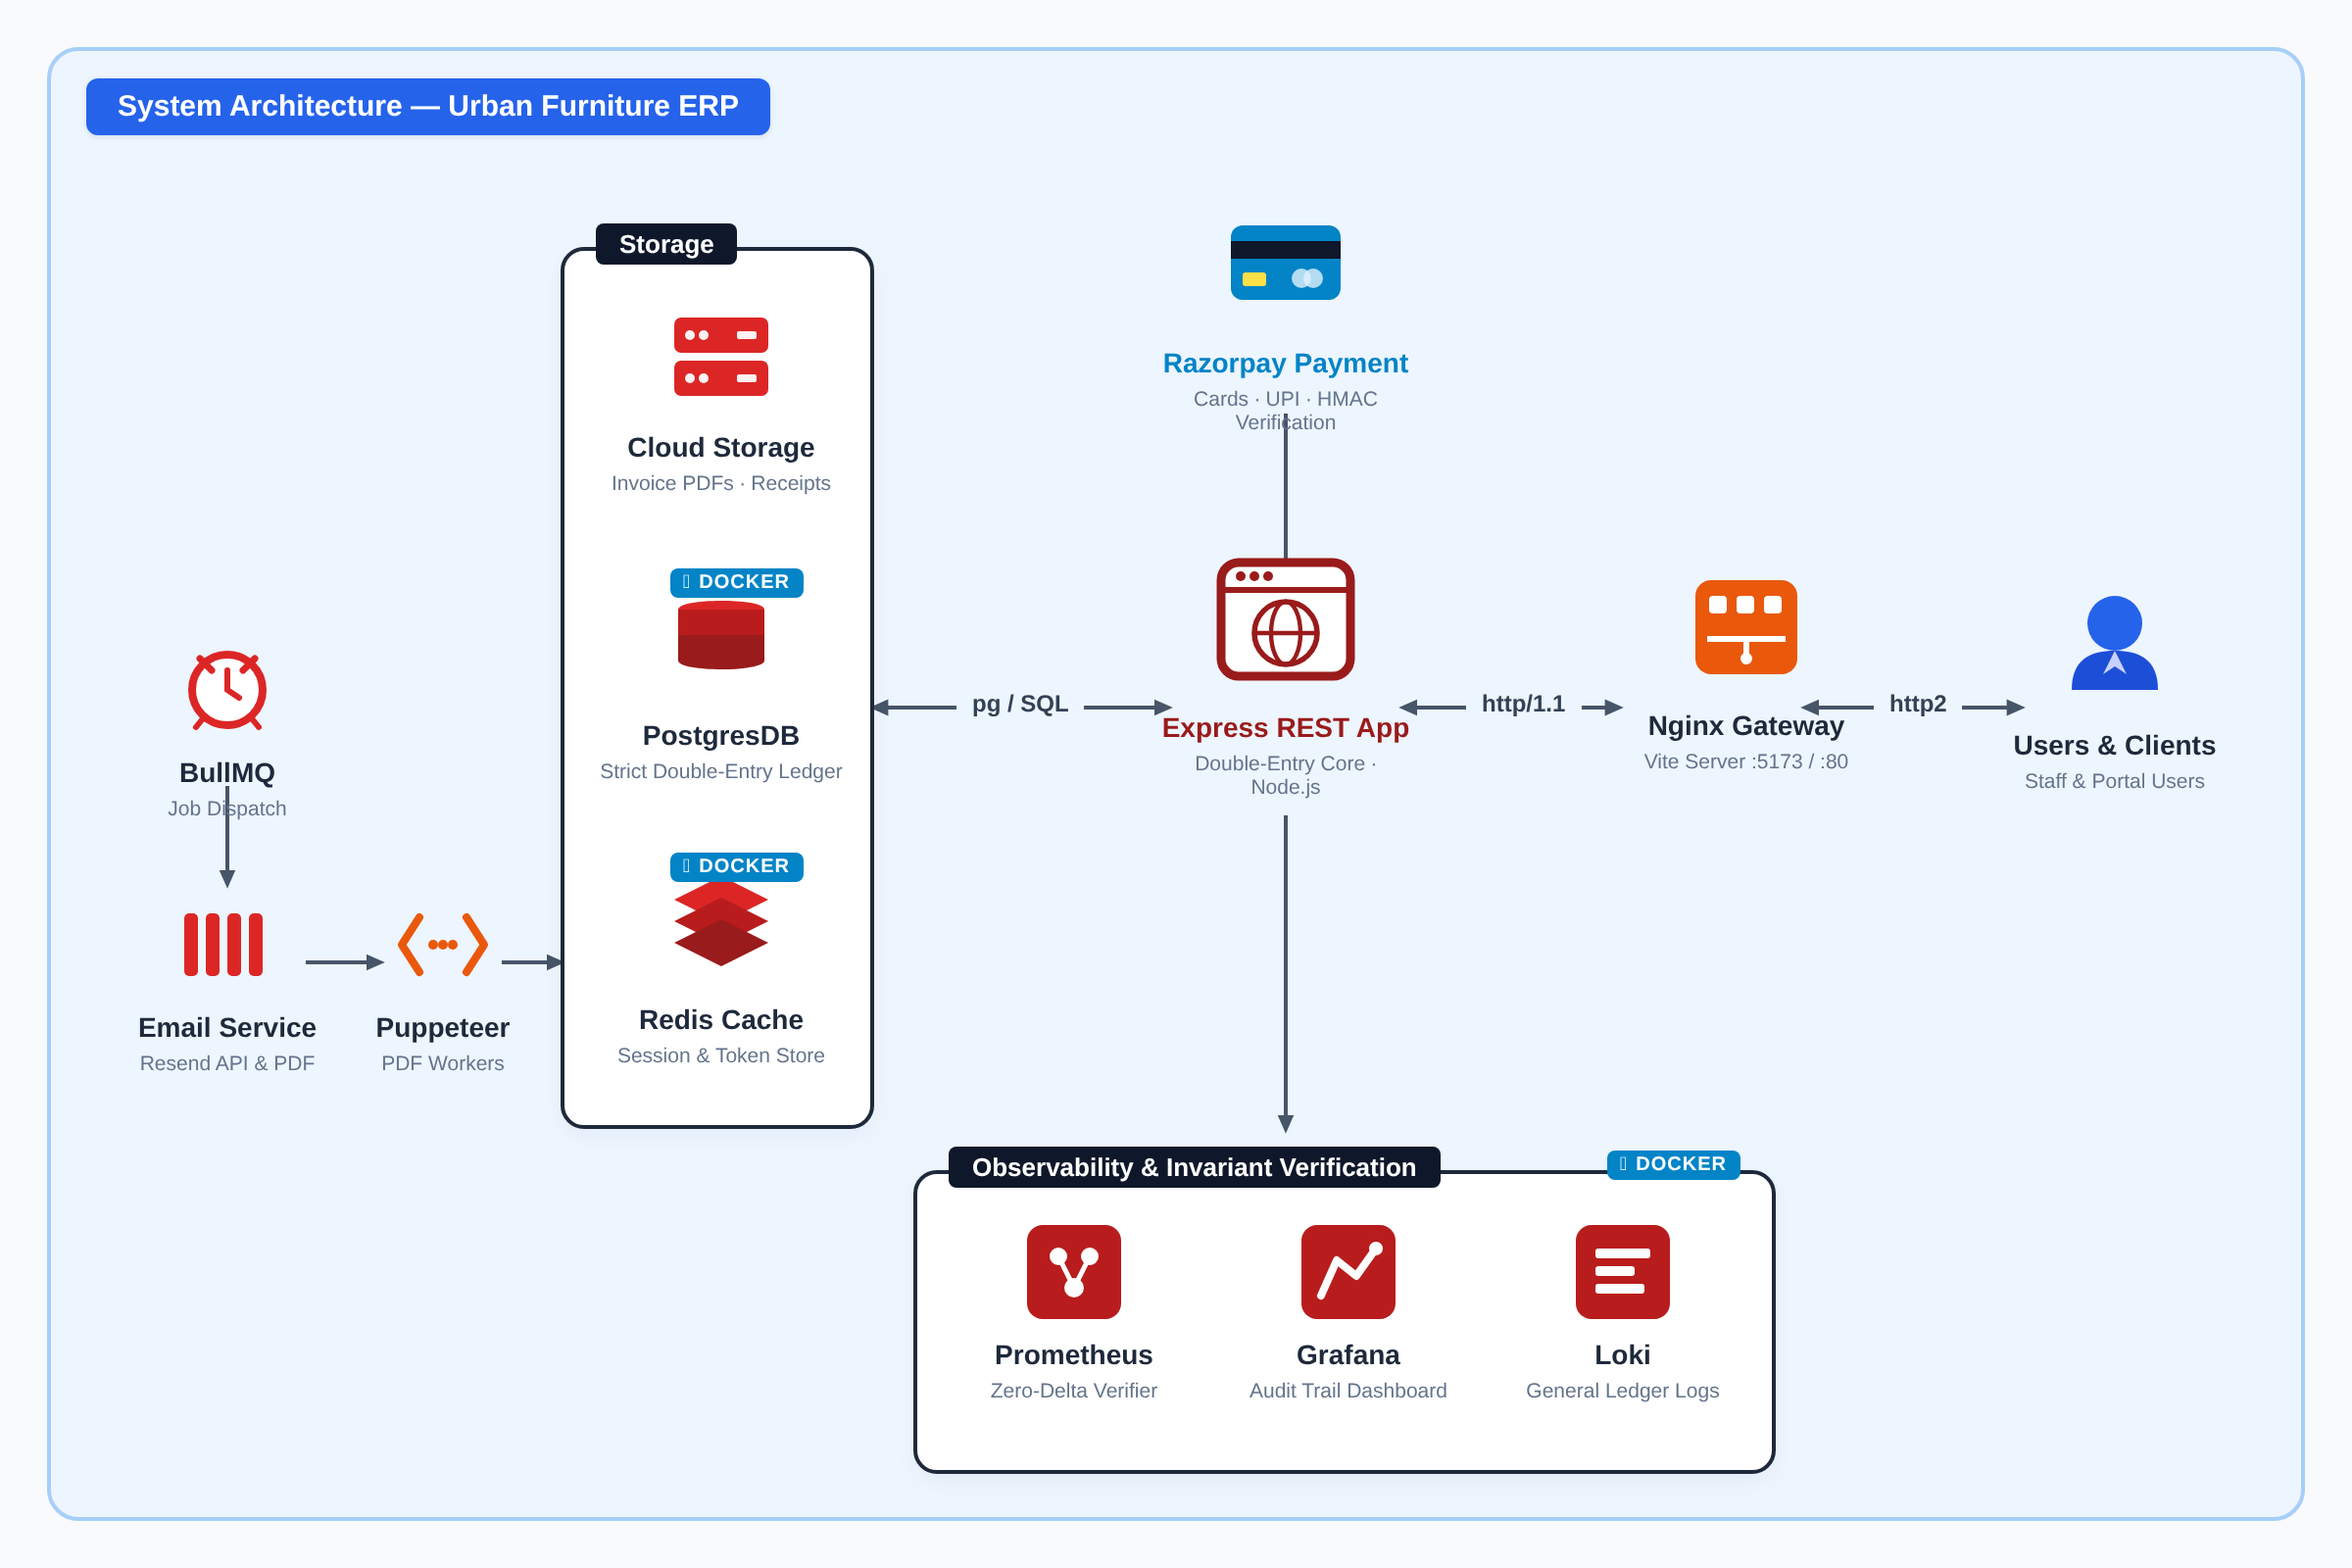
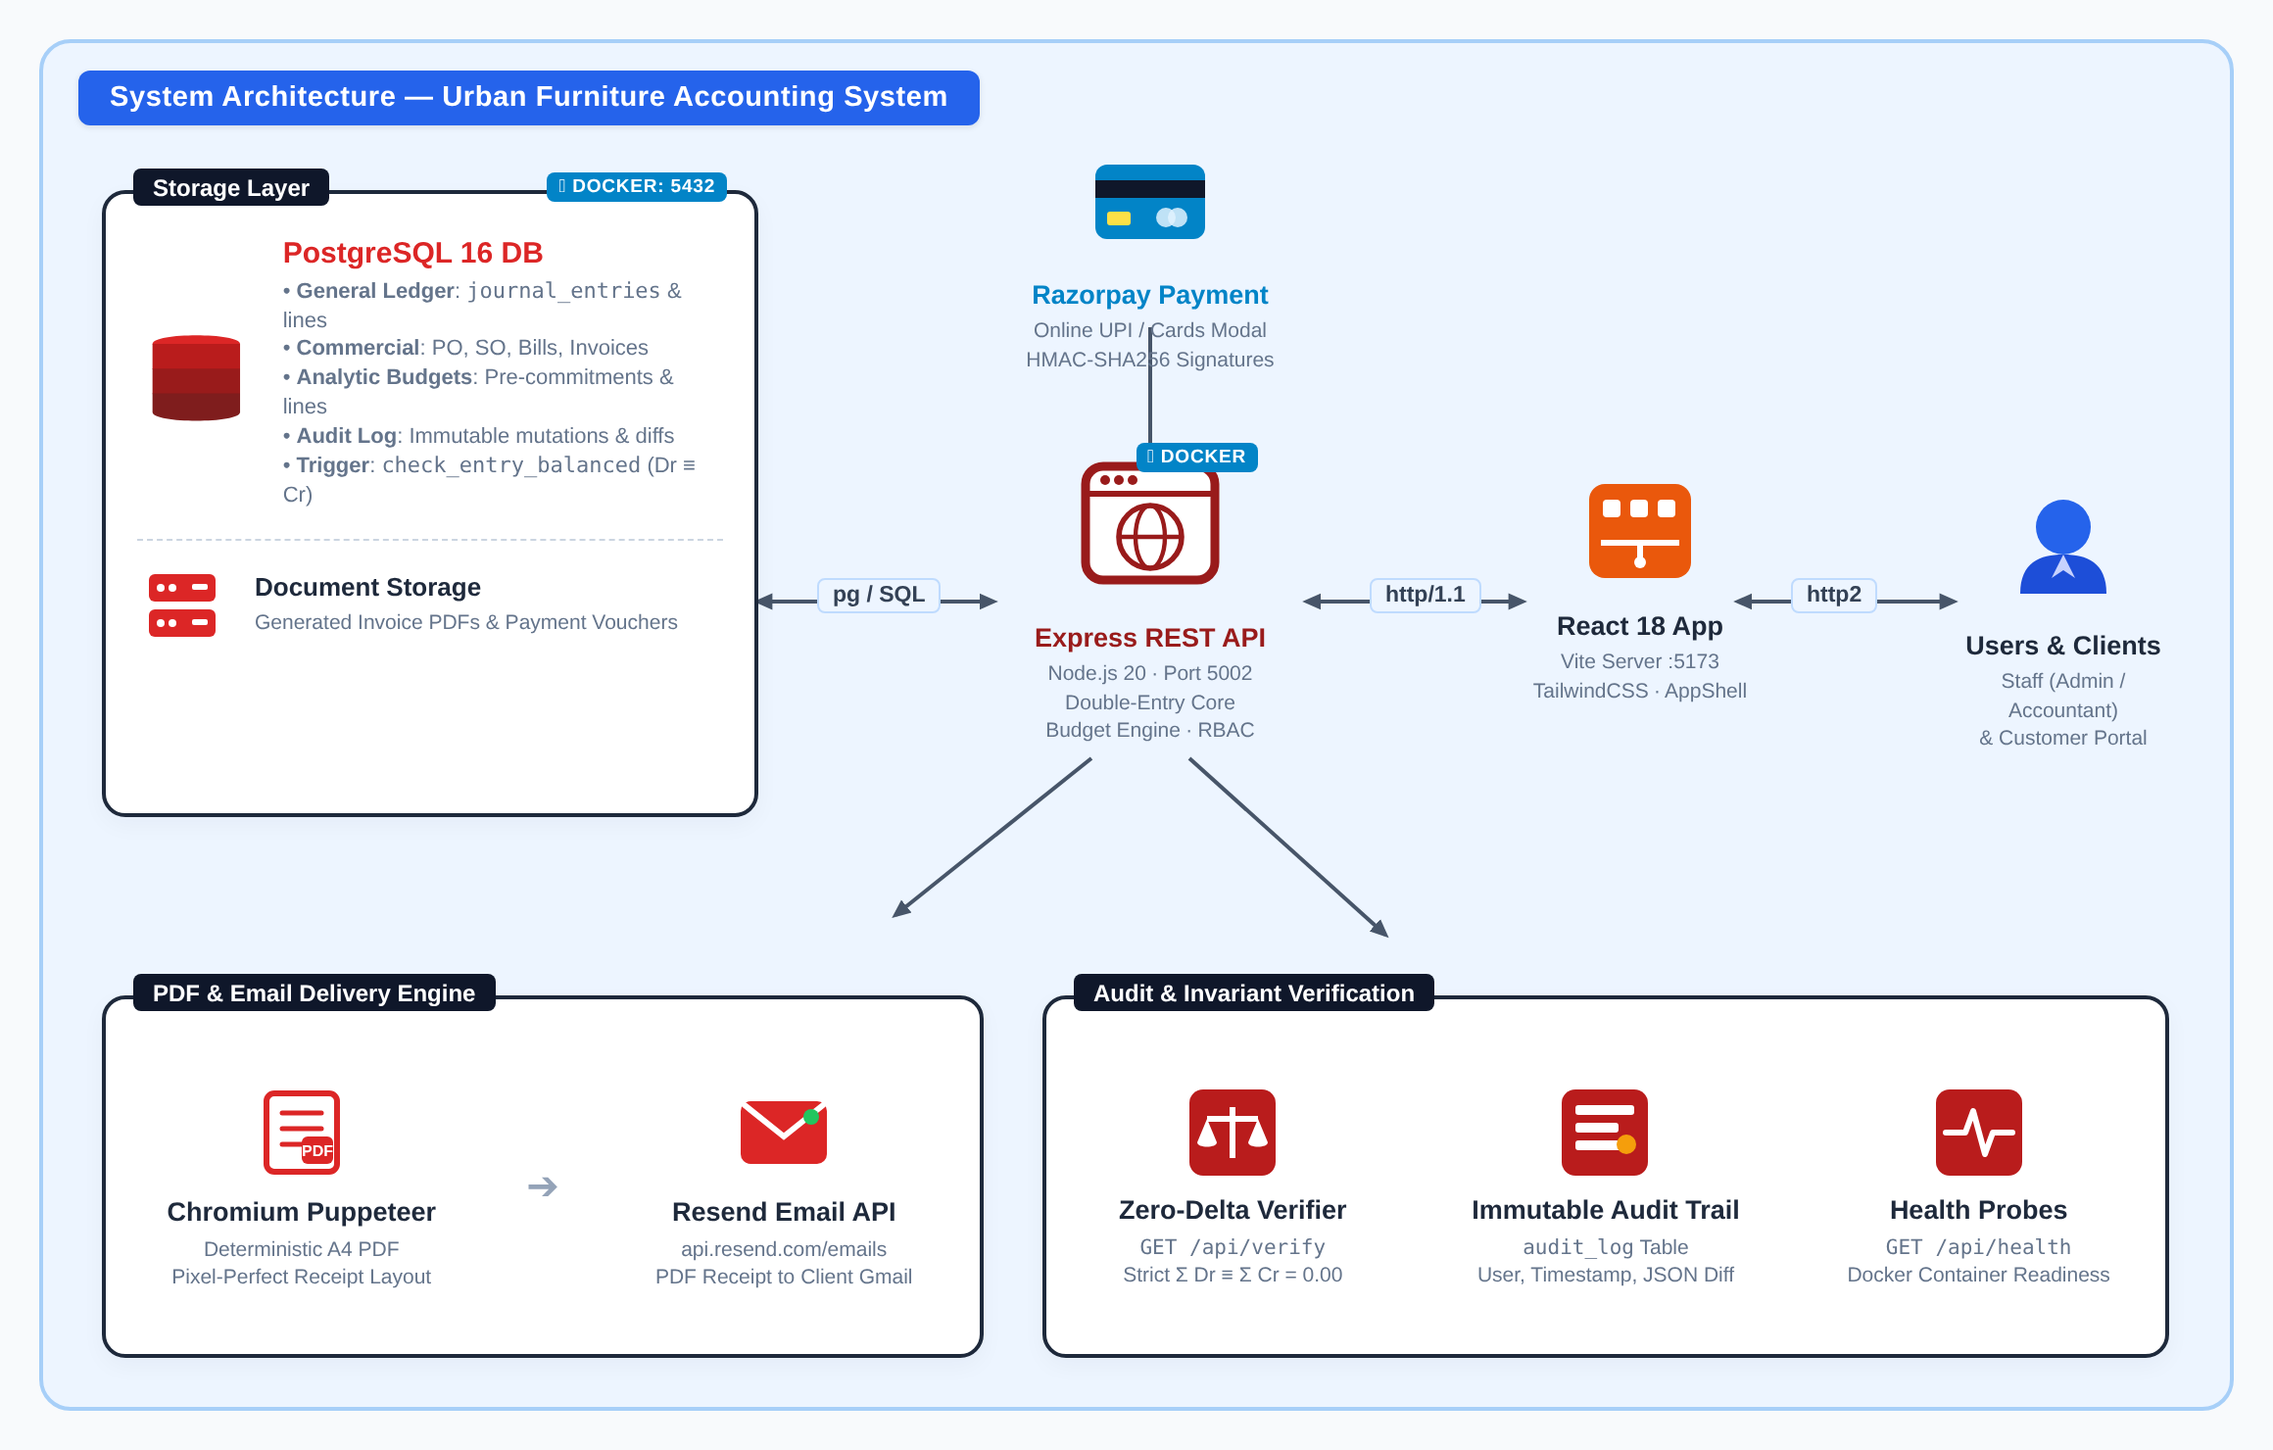
docs: align architecture diagram strictly with Urban Furniture ERP components

diff --git a/README.md b/README.md
@@ -24,79 +24,76 @@
 
 ```mermaid
 flowchart LR
-    subgraph SysArch [SYSTEM ARCHITECTURE]
+    subgraph SysArch [SYSTEM ARCHITECTURE — URBAN FURNITURE ERP]
         direction LR
 
         subgraph ActorsCluster [Users and Clients]
-            Users[Users and Portal Clients<br/>Internal Staff and Customer Portal]
+            Users[Users and Clients<br/>Staff: Admin, Accountant, Sales<br/>Customer Portal Users]
         end
 
-        subgraph GatewayCluster [Gateway and Web]
-            Gateway[Nginx Gateway / Web App<br/>Port 5173 / 80<br/>SSL Termination and Reverse Proxy]
+        subgraph GatewayCluster [Frontend Client Tier]
+            Gateway[React 18 Web App<br/>Vite Server :5173 / :80<br/>TailwindCSS and AppShell]
         end
 
         subgraph AppCluster [Application Core - Docker]
-            WebApp[Express REST API Server<br/>Node.js 20 - Express 5 - TypeScript<br/>Double-Entry Posting Engine<br/>RBAC and Pre-Commitment Budgets]
+            WebApp[Express REST API Server<br/>Node.js 20 - Port 5002<br/>Double-Entry Posting Engine<br/>Pre-Commitment Budgets and RBAC]
         end
 
         subgraph PaymentCluster [Payment Gateway]
-            Razorpay[Razorpay Payment Gateway<br/>Online UPI and Cards Checkout<br/>HMAC-SHA256 Signature Verification]
+            Razorpay[Razorpay Payment Gateway<br/>Online UPI and Cards Modal<br/>HMAC-SHA256 Signatures]
         end
 
-        subgraph StorageCluster [Storage - Docker]
+        subgraph StorageCluster [Storage Layer - Docker]
             direction TB
-            CloudStorage[Document and File Storage<br/>PDF Invoices and Receipts]
-            PostgresDB[PostgreSQL 16 DB - Port 5432<br/>General Ledger Double-Entry<br/>Commercial PO SO Bills Invoices<br/>Immutable Audit Log and Budgets]
-            RedisCache[In-Memory Cache and Session Store<br/>Stateless JWT Validation]
+            PostgresDB[PostgreSQL 16 DB - Port 5432<br/>General Ledger: journal_entries and lines<br/>Commercial: PO, SO, Bills, Invoices<br/>Analytic Budgets and Audit Log<br/>Trigger: check_entry_balanced]
+            DocStorage[Document Storage<br/>Invoice PDFs and Payment Vouchers]
         end
 
-        subgraph WorkerCluster [Background Services and Email Pipeline]
+        subgraph WorkerCluster [PDF and Email Delivery Engine]
             direction TB
-            BullQueue[BullMQ Asynchronous Dispatch<br/>Event-Driven Task Handling]
-            EmailService[Resend Email Service<br/>Transactional Receipt Delivery<br/>PDF Attachment to Personal Gmail]
-            PdfEngine[Chromium PDF Engine - Puppeteer<br/>Deterministic A4 Receipts]
+            PdfEngine[Chromium Puppeteer<br/>Deterministic A4 PDF Receipts]
+            EmailService[Resend Email API<br/>api.resend.com/emails<br/>Dispatches PDF to Client Gmail]
         end
 
-        subgraph ObservabilityCluster [Observability and Verification - Docker]
+        subgraph ObservabilityCluster [Audit and Invariant Verification]
             direction LR
-            Prometheus[Zero-Delta Invariant Verifier<br/>GET /api/verify<br/>Total Debit = Total Credit]
-            Grafana[Immutable Audit Trail<br/>audit_log Table]
-            Loki[Health and System Probes<br/>GET /api/health]
+            Verifier[Zero-Delta Verifier<br/>GET /api/verify<br/>Strict Total Dr = Total Cr = 0.00]
+            AuditTrail[Immutable Audit Trail<br/>audit_log Table<br/>User, Timestamp, Diff]
+            HealthProbes[Health Probes<br/>GET /api/health<br/>Docker Container Readiness]
         end
 
-        Users <-->|http2| Gateway
-        Gateway <-->|http/1.1| WebApp
+        Users <-->|http2 / HTTPS| Gateway
+        Gateway <-->|http/1.1 REST| WebApp
 
-        Razorpay -->|Order and Signatures| WebApp
+        Razorpay -->|Order and Signature Verification| WebApp
 
-        WebApp <-->|SQL| PostgresDB
-        WebApp <-->|Files| CloudStorage
-        WebApp <-->|Cache| RedisCache
+        WebApp <-->|pg / SQL Wire| PostgresDB
+        WebApp <-->|File I/O| DocStorage
 
-        WebApp -->|Event| BullQueue
-        BullQueue -->|Render| PdfEngine
-        PdfEngine -->|Attachment| EmailService
-        EmailService -->|Email Receipt| Users
+        WebApp -->|Render Event| PdfEngine
+        PdfEngine -->|Base64 Attachment| EmailService
+        EmailService -.->|Email Receipt| Users
 
-        WebApp -.->|Telemetry| ObservabilityCluster
-        PostgresDB -.->|Audit Check| Prometheus
+        WebApp -.->|Audit Check| Verifier
+        WebApp -.->|Mutation Audit| AuditTrail
+        WebApp -.->|Container Status| HealthProbes
     end
 ```
 
 </details>
-
 
 ### Architecture Subsystems at a Glance
 
 | Subsystem | Key Components | Protocols & Ports | Role in Urban Furniture ERP |
 | :--- | :--- | :--- | :--- |
 | **Actors / Users** | Staff (Admin, Accountant, Sales, Warehouse) & Customer Portal Clients | Browser / HTTPS | Operational ERP management and external customer self-service invoice settlement. |
-| **Gateway & Web** | Nginx Reverse Proxy / Vite Application Server | `HTTP/2` (`:5173`, `:80`, `:443`) | SSL termination, reverse proxying, static asset caching, and route protection. |
+| **Frontend Client** | React 18, Vite Bundler, TailwindCSS, AppShell | `HTTP/2` (`:5173`, `:80`) | Responsive user interface, double-entry modals, budget warning banners. |
 | **Core Web App & API** | Node.js 20, Express 5, TypeScript, Zod, Decimal.js | `HTTP/1.1 REST` (`:5000` / `:5002`) | Commercial workflows, double-entry posting engine, pre-commitment budget checks, and data scoping. |
-| **Payment Gateway** | Razorpay Payment Gateway API & Test Sandbox | HTTPS REST / Webhook | Online checkout, card/UPI tokenization, and deterministic HMAC-SHA256 signature verification. |
-| **Storage Subsystem** | PostgreSQL 16 DB, Local/Cloud Document Storage, Cache | Postgres Wire (`:5432`), Docker Volumes | Transactional ACID ledger, immutable audit trail, gapless numbering sequences, and PDF documents. |
-| **Email & PDF Pipeline** | Headless Chromium (Puppeteer) + Resend API (`api.resend.com`) | Async Queue / REST | Deterministic A4 payment receipt PDF generation and immediate delivery to client Gmail. |
-| **Observability** | Zero-Delta Invariant Verifier, Audit Trail, Health Probes | `/api/verify`, `/api/health` | Live verification of $\sum \text{Debit} \equiv \sum \text{Credit}$ down to the paisa, container health checks. |
+| **Payment Gateway** | Razorpay Payment Gateway API & Test Sandbox | HTTPS REST / Webhooks | Online checkout, card/UPI tokenization, and deterministic HMAC-SHA256 signature verification. |
+| **Storage Subsystem** | PostgreSQL 16 Alpine, Local Document Storage | Postgres Wire (`:5432`), Docker Volumes | Transactional ACID ledger, immutable audit trail, gapless numbering sequences, and PDF documents. |
+| **Email & PDF Pipeline** | Headless Chromium (Puppeteer) + Resend API (`api.resend.com`) | Native REST | Deterministic A4 payment receipt PDF generation and direct delivery to client Gmail. |
+| **Observability** | Zero-Delta Invariant Verifier, Audit Trail, Health Probes | `/api/verify`, `/api/health` | Live verification of $\sum \text{Debit} \equiv \sum \text{Credit} = 0.00$ down to the paisa, container health checks. |
+
 
 ---
 
